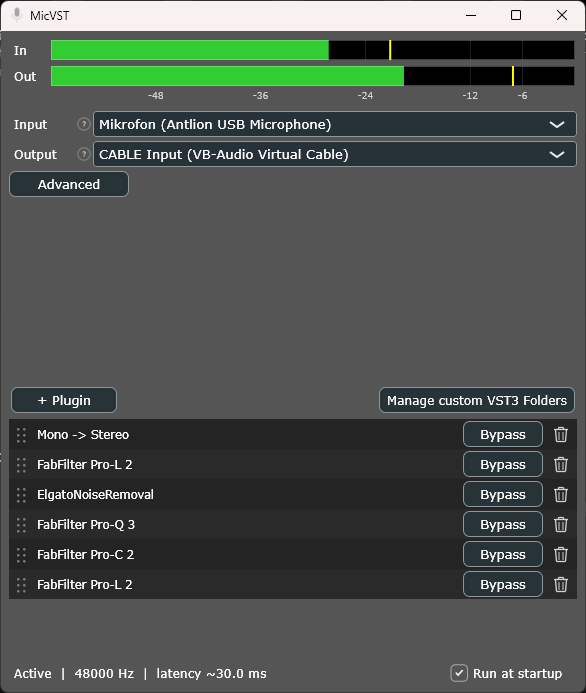
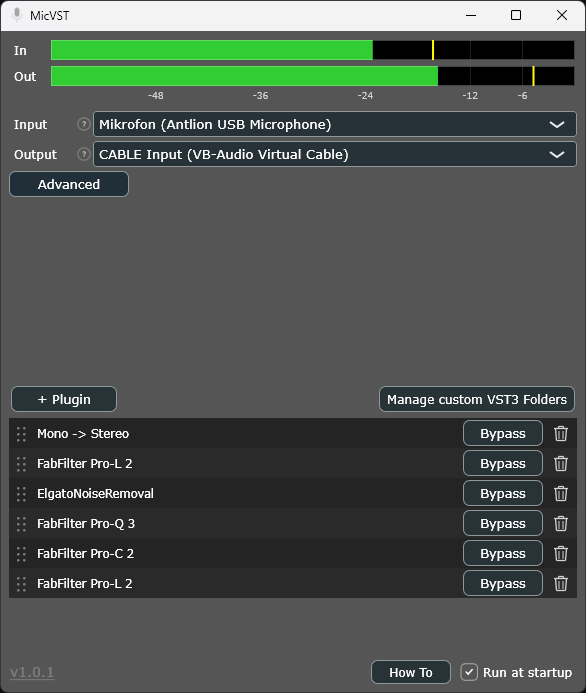
Add How To screen and a GitHub link to quickly check for updates

diff --git a/src/ui/MainComponent.cpp b/src/ui/MainComponent.cpp
@@ -1,6 +1,102 @@
 #include "ui/MainComponent.h"
 #include "audio/PluginChain.h"
 
+namespace
+{
+    juce::String howToText()
+    {
+        return
+            "How to use MicVST\n"
+            "\n"
+            "1)  Install a virtual audio cable\n"
+            "    VB-Cable (free) is recommended (link below). MicVST detects it automatically.\n"
+            "\n"
+            "2)  Pick your devices (top of the window)\n"
+            "    Input   =  your microphone\n"
+            "    Output  =  the virtual cable (e.g. \"CABLE Input\")\n"
+            "\n"
+            "3)  Build your plugin chain  (\"+ Plugin\")\n"
+            "    - Add VST3 effects (EQ, de-noise, compressor, ...).\n"
+            "    - Insert \"Mono -> Stereo\" where you want stereo (before it the chain runs\n"
+            "      mono = less CPU). \"Stereo -> Mono\" is available too.\n"
+            "    - Drag the handle on the left to reorder; the trash icon removes (with a prompt).\n"
+            "    - Double-click a plugin to open its editor.\n"
+            "    - \"Manage custom VST3 Folders\" adds plugins from other locations.\n"
+            "\n"
+            "4)  Use it in any app\n"
+            "    In Discord / OBS / Zoom / ..., select \"CABLE Output\" as the microphone.\n"
+            "\n"
+            "5)  That's it\n"
+            "    Settings are saved automatically. Closing the window keeps MicVST running in the\n"
+            "    tray (right-click the tray icon for options). Enable \"Run at startup\" to launch\n"
+            "    it silently on boot.";
+    }
+
+    const char* const kRepoUrl = "https://github.com/philipz794/MicVST";
+
+    // Inhalt des How-To-Fensters: Anleitungstext + klickbare Links (VB-Cable, GitHub).
+    class HowToContent : public juce::Component
+    {
+    public:
+        HowToContent()
+        {
+            body.setMultiLine (true);
+            body.setReadOnly (true);
+            body.setCaretVisible (false);
+            body.setScrollbarsShown (true);
+            body.setPopupMenuEnabled (false);
+            body.setColour (juce::TextEditor::backgroundColourId, juce::Colour (0xff1e1e1e));
+            body.setColour (juce::TextEditor::outlineColourId, juce::Colours::transparentBlack);
+            body.setColour (juce::TextEditor::textColourId, juce::Colours::white);
+            body.setFont (juce::Font (juce::FontOptions (15.0f)));
+            body.setText (howToText(), false);
+            addAndMakeVisible (body);
+
+            setupLink (vbCable, "Download VB-Cable  (vb-audio.com/Cable)", "https://vb-audio.com/Cable/");
+            setupLink (github,  "Check for updates on GitHub", kRepoUrl);
+        }
+
+        void resized() override
+        {
+            auto r = getLocalBounds().reduced (12);
+            github.setBounds (r.removeFromBottom (22));
+            r.removeFromBottom (6);
+            vbCable.setBounds (r.removeFromBottom (22));
+            r.removeFromBottom (10);
+            body.setBounds (r);
+        }
+
+    private:
+        void setupLink (juce::HyperlinkButton& b, const juce::String& text, const juce::String& url)
+        {
+            b.setButtonText (text);
+            b.setURL (juce::URL (url));
+            b.setJustificationType (juce::Justification::centredLeft);
+            b.setColour (juce::HyperlinkButton::textColourId, juce::Colours::orange);
+            addAndMakeVisible (b);
+        }
+
+        juce::TextEditor body;
+        juce::HyperlinkButton vbCable, github;
+    };
+
+    // Eigenes Fenster mit der Anleitung. Schließen versteckt nur (Instanz bleibt zum Wieder-Öffnen).
+    class HowToWindow : public juce::DocumentWindow
+    {
+    public:
+        HowToWindow()
+            : juce::DocumentWindow ("MicVST - How To", juce::Colours::darkgrey,
+                                    juce::DocumentWindow::closeButton)
+        {
+            setUsingNativeTitleBar (true);
+            setContentOwned (new HowToContent(), false);
+            setResizable (true, false);
+            centreWithSize (560, 560);
+        }
+        void closeButtonPressed() override { setVisible (false); }
+    };
+}
+
 MainComponent::MainComponent (AudioEngine& e) : engine (e)
 {
     devicePanel = std::make_unique<DevicePanel> (engine);
@@ -16,8 +112,16 @@ MainComponent::MainComponent (AudioEngine& e) : engine (e)
     pluginList = std::make_unique<PluginListView> (engine);
     addAndMakeVisible (*pluginList);
 
-    addAndMakeVisible (statusLabel);
-    statusLabel.setJustificationType (juce::Justification::centredLeft);
+    addAndMakeVisible (howToBtn);
+    howToBtn.setTooltip ("Quick setup guide");
+    howToBtn.onClick = [this] { showHowTo(); };
+
+    versionLink.setButtonText ("v" + juce::JUCEApplication::getInstance()->getApplicationVersion());
+    versionLink.setURL (juce::URL (kRepoUrl));
+    versionLink.setTooltip ("MicVST on GitHub");
+    versionLink.setJustificationType (juce::Justification::centredLeft);
+    versionLink.setColour (juce::HyperlinkButton::textColourId, juce::Colours::grey);
+    addAndMakeVisible (versionLink);
 
     addAndMakeVisible (autostartToggle);
     autostartToggle.setTooltip ("Launch MicVST silently into the tray when Windows starts");
@@ -29,8 +133,7 @@ MainComponent::MainComponent (AudioEngine& e) : engine (e)
     cableHint.setTooltip ("https://vb-audio.com/Cable/");
     addChildComponent (cableHint);   // Sichtbarkeit steuert updateCableHint()
 
-    engine.onStatusChanged = [this] { updateStatus(); updateCableHint(); };
-    updateStatus();
+    engine.onStatusChanged = [this] { updateCableHint(); };
     updateCableHint();
 
     setSize (560, 560);
@@ -47,24 +150,16 @@ void MainComponent::timerCallback()
 {
     inMeter.setLevel (engine.inputLevel());
     outMeter.setLevel (engine.outputLevel());
-    updateStatus();
     // Mit der Registry synchron halten (z. B. wenn der Tray den Autostart umschaltet).
     autostartToggle.setToggleState (AutostartRegistry::isEnabled(), juce::dontSendNotification);
 }
 
-void MainComponent::updateStatus()
+void MainComponent::showHowTo()
 {
-    juce::String t = engine.isRunning() ? juce::String ("Active")
-                                        : juce::String ("Idle - device disconnected");
-    if (auto* d = engine.getDeviceManager().getCurrentAudioDevice())
-        t << "  |  " << juce::String (d->getCurrentSampleRate(), 0) << " Hz";
-    if (auto* d = engine.getDeviceManager().getCurrentAudioDevice())
-    {
-        const double lat = (d->getInputLatencyInSamples() + d->getOutputLatencyInSamples()
-                            + d->getCurrentBufferSizeSamples()) / d->getCurrentSampleRate() * 1000.0;
-        t << "  |  latency ~" << juce::String (lat, 1) << " ms";
-    }
-    statusLabel.setText (t, juce::dontSendNotification);
+    if (howToWindow == nullptr)
+        howToWindow.reset (new HowToWindow());
+    howToWindow->setVisible (true);
+    howToWindow->toFront (true);
 }
 
 void MainComponent::updateCableHint()
@@ -82,9 +177,11 @@ void MainComponent::updateCableHint()
 void MainComponent::resized()
 {
     auto r = getLocalBounds().reduced (8);
-    auto bottomRow = r.removeFromBottom (22);
-    autostartToggle.setBounds (bottomRow.removeFromRight (130));
-    statusLabel.setBounds (bottomRow);
+    auto bottomRow = r.removeFromBottom (24);
+    autostartToggle.setBounds (bottomRow.removeFromRight (120));
+    bottomRow.removeFromRight (6);
+    howToBtn.setBounds (bottomRow.removeFromRight (80));
+    versionLink.setBounds (bottomRow.removeFromLeft (52));   // klickbare Version unten links
     r.removeFromBottom (4);
 
     // Horizontale Meter: In-Zeile, Out-Zeile, gemeinsame dB-Skala darunter.

diff --git a/src/ui/DevicePanel.cpp b/src/ui/DevicePanel.cpp
@@ -19,6 +19,11 @@ DevicePanel::DevicePanel (AudioEngine& e) : engine (e)
     addChildComponent (srLabel);  addChildComponent (srBox);
     addChildComponent (bufLabel); addChildComponent (bufBox);
 
+    statusLabel.setJustificationType (juce::Justification::centredLeft);
+    statusLabel.setColour (juce::Label::textColourId, juce::Colours::grey);
+    statusLabel.setFont (juce::Font (juce::FontOptions (13.0f)));
+    addChildComponent (statusLabel);
+
     advancedBtn.setClickingTogglesState (true);
     advancedBtn.onClick = [this] { toggleAdvanced(); };
 
@@ -90,6 +95,18 @@ void DevicePanel::refresh()
     srBox.setEnabled  (! sampleRates.isEmpty());
     bufBox.setEnabled (! bufferSizes.isEmpty());
 
+    // Status (Active / Samplerate / Latenz) für die Advanced-Anzeige.
+    juce::String st = engine.isRunning() ? juce::String ("Active")
+                                         : juce::String ("Idle - device disconnected");
+    if (auto* dev = dm.getCurrentAudioDevice())
+    {
+        st << "   |   " << juce::String (dev->getCurrentSampleRate(), 0) << " Hz";
+        const double lat = (dev->getInputLatencyInSamples() + dev->getOutputLatencyInSamples()
+                            + dev->getCurrentBufferSizeSamples()) / dev->getCurrentSampleRate() * 1000.0;
+        st << "   |   latency ~" << juce::String (lat, 1) << " ms";
+    }
+    statusLabel.setText (st, juce::dontSendNotification);
+
     updating = false;
 }
 
@@ -129,6 +146,7 @@ void DevicePanel::toggleAdvanced()
     srBox.setVisible (advancedVisible);
     bufLabel.setVisible (advancedVisible);
     bufBox.setVisible (advancedVisible);
+    statusLabel.setVisible (advancedVisible);
     resized();
 }
 
@@ -166,5 +184,6 @@ void DevicePanel::resized()
         srLabel.setBounds (srRow.removeFromLeft (labelW));   srBox.setBounds (srRow);
         auto bufRow = row();
         bufLabel.setBounds (bufRow.removeFromLeft (labelW)); bufBox.setBounds (bufRow);
+        statusLabel.setBounds (row());   // Status-Zeile unter den Dropdowns
     }
 }

diff --git a/src/ui/MainComponent.h b/src/ui/MainComponent.h
@@ -14,15 +14,17 @@ public:
     void resized() override;
 private:
     void timerCallback() override;
-    void updateStatus();
     void updateCableHint();   // zeigt den VB-Cable-Hinweis, wenn kein virtuelles Kabel installiert ist
+    void showHowTo();         // öffnet das How-To-Fenster
     AudioEngine& engine;
     std::unique_ptr<DevicePanel> devicePanel;
     LevelMeterComponent inMeter, outMeter;
     DbScaleComponent dbScale;
     juce::Label inLabel { {}, "In" }, outLabel { {}, "Out" };
     std::unique_ptr<PluginListView> pluginList;
-    juce::Label statusLabel;
+    juce::HyperlinkButton versionLink;   // klickbare Versionsnummer -> GitHub-Repo
+    juce::TextButton howToBtn { "How To" };
+    std::unique_ptr<juce::DocumentWindow> howToWindow;
     juce::ToggleButton autostartToggle { "Run at startup" };
     juce::HyperlinkButton cableHint { "No virtual audio cable found - click to install VB-Cable",
                                       juce::URL ("https://vb-audio.com/Cable/") };

diff --git a/src/Main.cpp b/src/Main.cpp
@@ -9,7 +9,7 @@ class MicVSTApplication : public juce::JUCEApplication
 {
 public:
     const juce::String getApplicationName() override    { return "MicVST"; }
-    const juce::String getApplicationVersion() override { return "1.0.0"; }
+    const juce::String getApplicationVersion() override { return "1.0.1"; }
     bool moreThanOneInstanceAllowed() override          { return false; }
 
     void initialise (const juce::String& commandLine) override

diff --git a/src/ui/DevicePanel.h b/src/ui/DevicePanel.h
@@ -42,6 +42,7 @@ private:
     juce::TextButton advancedBtn { "Advanced" };
     juce::Label    srLabel  { {}, "Sample rate" }, bufLabel { {}, "Buffer size" };
     juce::ComboBox srBox, bufBox;
+    juce::Label    statusLabel;   // Active / Samplerate / Latenz (nur unter Advanced)
 
     juce::Array<double> sampleRates;   // ComboBox-Index -> Wert
     juce::Array<int>    bufferSizes;

diff --git a/README.md b/README.md
@@ -22,7 +22,7 @@ Mic  →  MicVST (your VST3 chain)  →  VB-Cable (CABLE Input → CABLE Output)
 
 Grab the latest portable build — **no installer, no dependencies**, just run the `.exe`:
 
-➡️ **[Download MicVST.exe](https://github.com/philipz794/MicVST/releases/latest/download/MicVST.exe)**
+**[Download MicVST.exe](https://github.com/philipz794/MicVST/releases/latest/download/MicVST.exe)**
 
 (Statically linked, x64. No Visual C++ Redistributable required.)
 